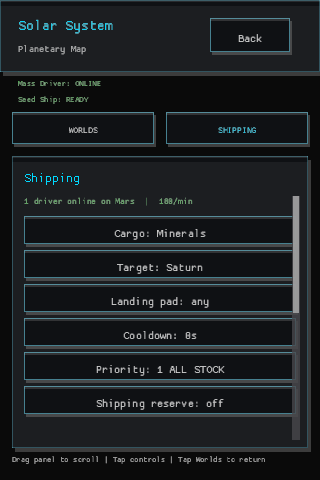
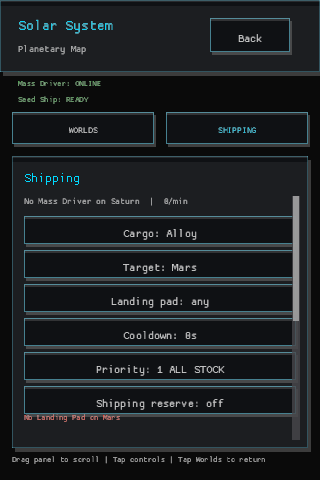
The shipping ledger names the world that lacks a driver (remote route diagnostics)
Remote Shipping could report an unnamed missing driver while the header correctly described the current world, leaving the two statuses easy to confuse. The selected route now names its affected world explicitly, and the remote-order capture opens the Saturn order it is meant to verify. Refreshed desktop and portrait evidence records the corrected route context.

diff --git a/src/capture_scenes/scenes/interplanetary.rs b/src/capture_scenes/scenes/interplanetary.rs
@@ -75,7 +75,12 @@ impl Game {
 
     pub(super) fn stage_interplanetary_remote_orders_scene(&mut self) {
         self.stage_interplanetary_scene();
-        self.shipping_edit_world = self.campaign.current_index();
+        // Open the route that lives on the remote world. The local Mars order
+        // is useful for the ordinary shipping capture, but this scene exists
+        // to prove that a player can inspect and edit a standing order after
+        // leaving its source world.
+        self.shipping_edit_world = 4;
+        self.shipping_scroll.set_offset(0.0);
         if let Some(planet) = self.campaign.planet_mut(4) {
             planet.export = Some(state::ExportOrder {
                 target: 2,

diff --git a/src/screens/interplanetary_view/tests.rs b/src/screens/interplanetary_view/tests.rs
@@ -12,7 +12,7 @@ use super::world_dossier::{compact_shipping_status, shipping_status_line};
 fn shipping_status_distinguishes_absent_and_offline_drivers() {
     assert_eq!(
         driver_operation_status(0, 0, "Mars"),
-        "No Mass Driver on this world"
+        "No Mass Driver on Mars"
     );
     assert_eq!(
         driver_operation_status(1, 0, "Mars"),

diff --git a/src/screens/interplanetary_view/status.rs b/src/screens/interplanetary_view/status.rs
@@ -13,7 +13,7 @@ pub(super) fn driver_operation_status(built: usize, online: usize, world_name: &
     } else if built > 0 {
         format!("Mass Driver offline on {}", world_name)
     } else {
-        "No Mass Driver on this world".to_string()
+        format!("No Mass Driver on {world_name}")
     }
 }
 
